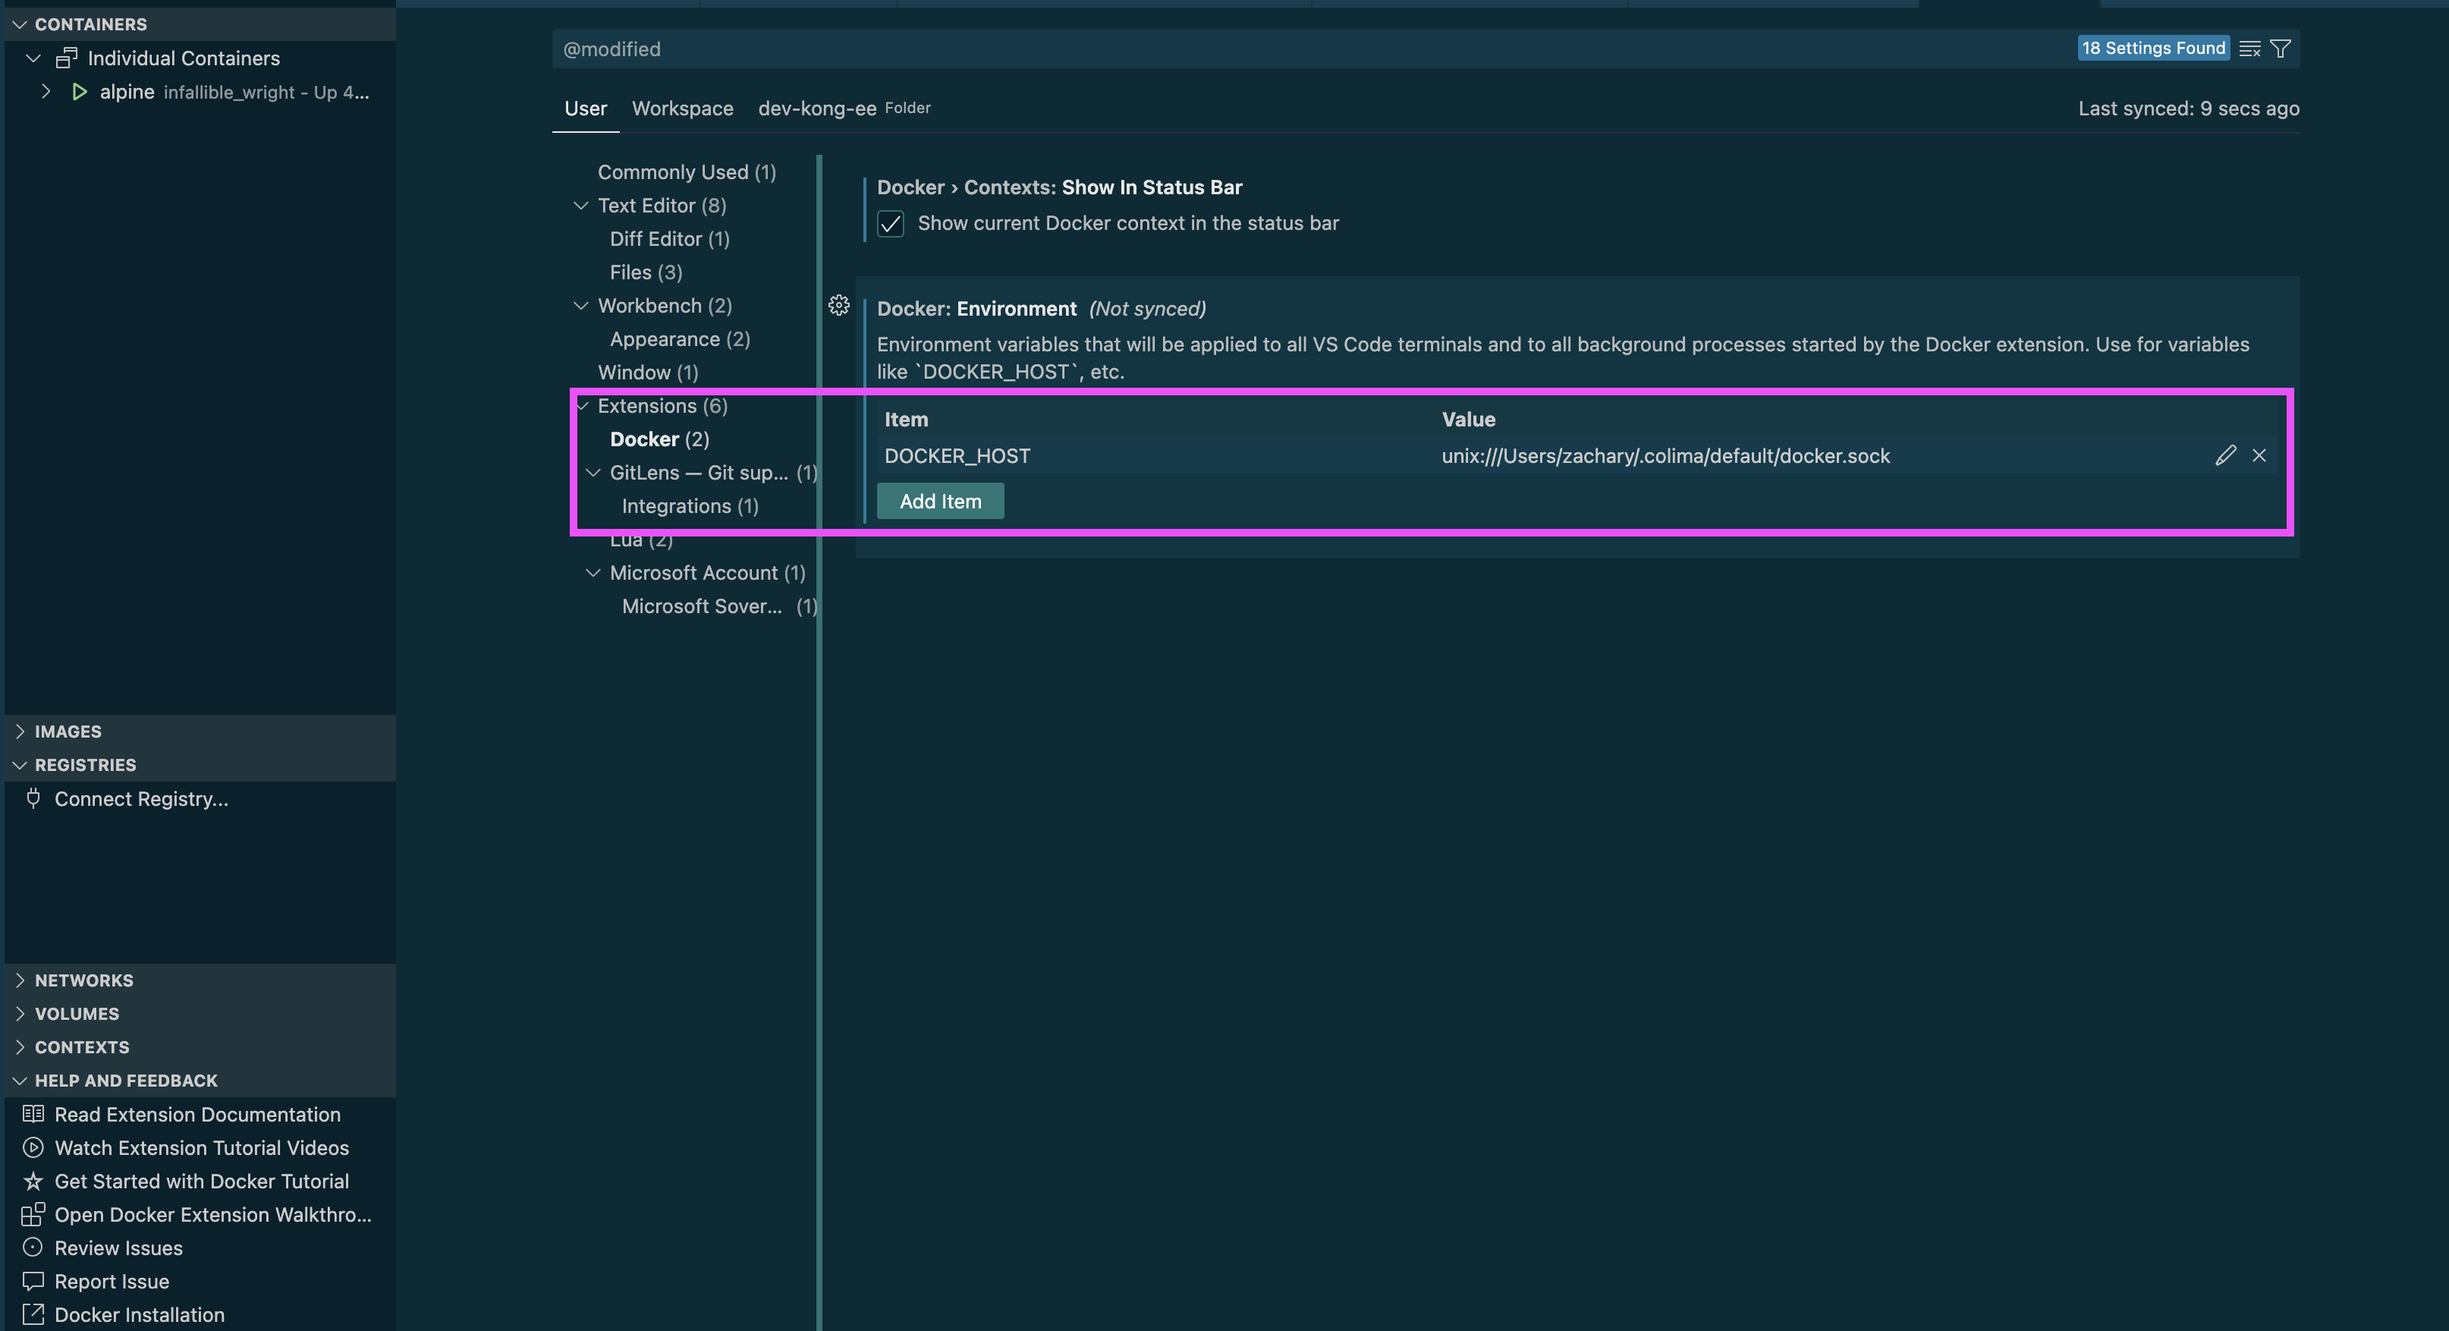
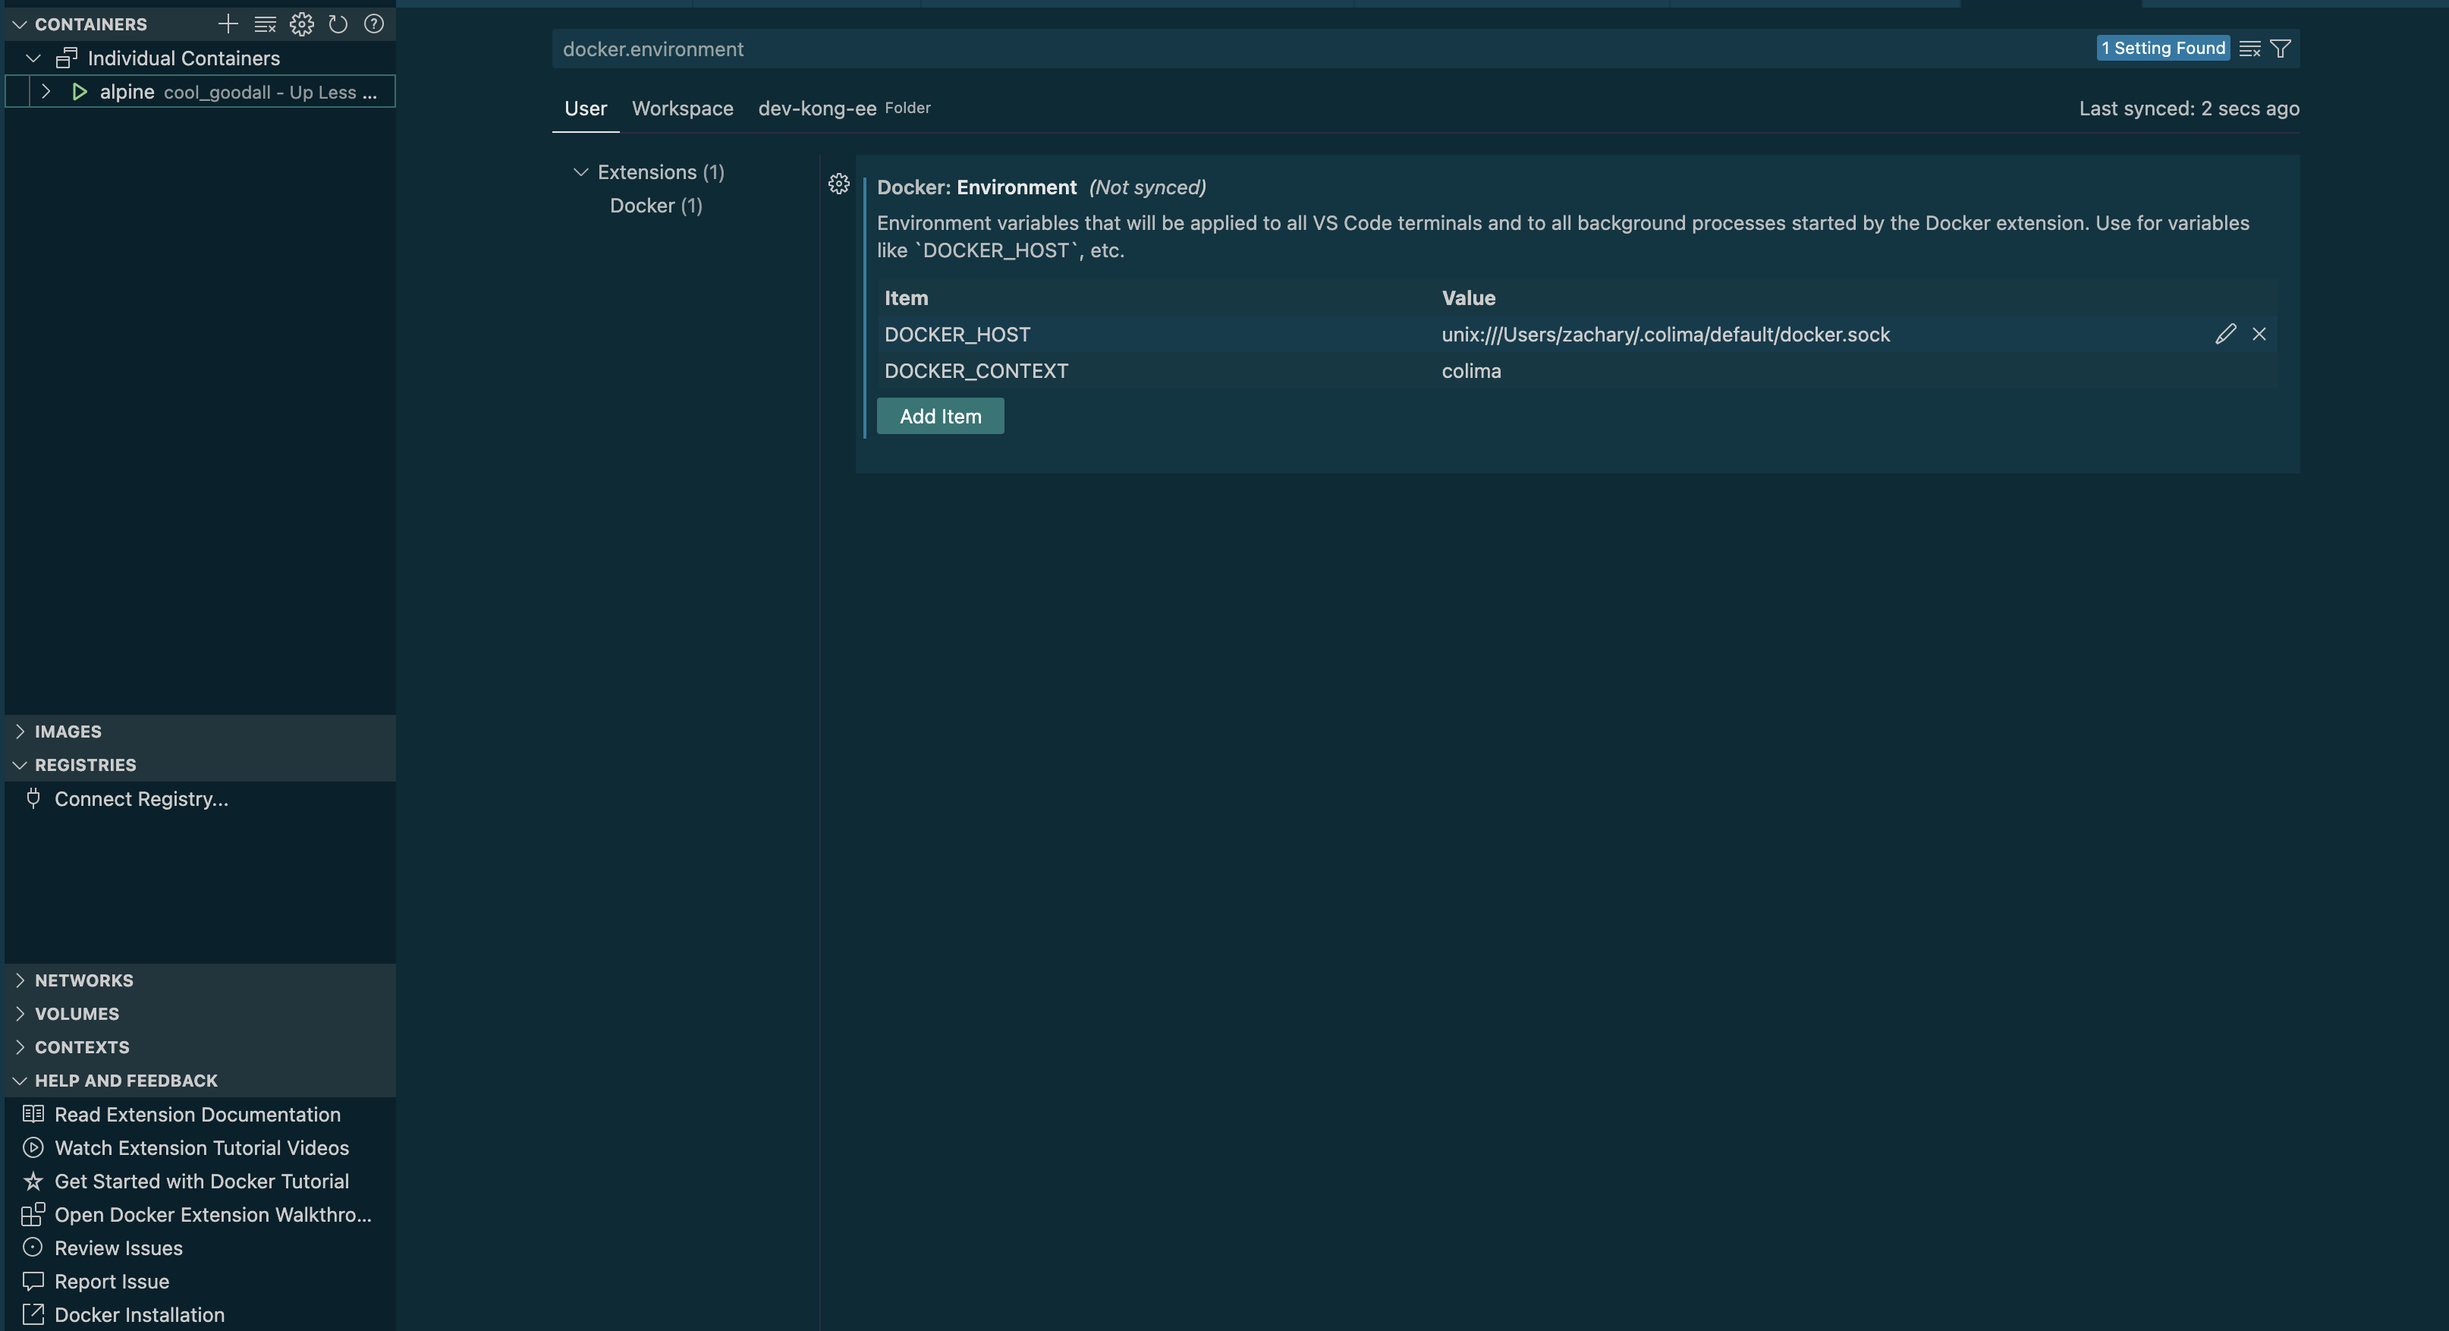
feat(docker): multi-platform build

diff --git a/_posts/2024-12-27-colima.md b/_posts/2024-12-27-colima.md
@@ -128,7 +128,7 @@ FATA[0000] colima is not running
 ~ $ colima start -p default
 ```
 
-Check the status. The colima instance exposes a [Docker Unix socket file docker.sock](#dockersock) to the macOS host for local usage.
+Check the status. The colima instance exposes a [Docker Unix socket file docker.sock](#unix-socket-file) to the macOS host for local usage.
 
 ```bash
 ~ $ colima list
@@ -143,7 +143,7 @@ INFO[0000] mountType: sshfs
 INFO[0000] socket: unix:///Users/jim/.colima/default/docker.sock
 ```
 
-Once started, a new [Docker context](#switch-docker-context) *colima* is created. The context name can be customized in the [config file](#config-colima). The context named *default* is referenced by applications that relies on the [DOCKER_HOST](#dockersock) environment variable.
+Once started, a new [Docker context](#switch-docker-engine) *colima* and a new [Docker builder](#switch-docker-engine) *colima* are created and used. The name *colima* can be customized in the [config file](#config-colima). If the [DOCKER_HOST environment variable is set](#unix-socket-file), it would [override the colima context](#unix-socket-file) regardless of the `DOCKER_CONTEXT` value.
 
 ```bash
 ~ $ docker context list
@@ -260,15 +260,44 @@ $ cat .config/docker/config.json
 }
 ```
 
-## Switch Docker Context ##
+## Switch Docker Engine ##
 
-In the [Start colima](#start-colima) section, the [Docker Context](#/2018/04/21/docker-newbie/#docker-context) is automatically switched to the colima Engine. But to definitely let Dokcer CLI communicate with the colima Engine, we should explicitly switch to it.
+In the [Start colima](#start-colima) section, the [Docker Context](#/2018/04/21/docker-newbie/#docker-context) and the [Docker builder](#multi-platform-build) are automatically switched to the colima Engine. But to definitely let Dokcer CLI communicate with the colima Engine, we should explicitly switch to it.
 
 ```bash
 ~ $ docker context use colima
+
+~ $ docker buildx use colima 
 ```
 
-# docker.sock #
+# Verify Setup #
+
+It is time that we create a container to verify the setup.
+
+```bash
+~ $ docker compose ls
+NAME                STATUS              CONFIG FILES
+16:29:49 zachary@Zacharys-MacBook-Pro ~
+
+~ $ docker ps
+CONTAINER ID   IMAGE     COMMAND   CREATED   STATUS    PORTS     NAMES
+```
+
+From the output, an `aarch64` container was created. So, we can say the colima VM is also `aarch64`.
+
+```bash
+~ $ docker run --rm -ti alpine uname -a
+Unable to find image 'alpine:latest' locally
+latest: Pulling from library/alpine
+cb8611c9fe51: Pull complete
+Digest: sha256:21dc6063fd678b478f57c0e13f47560d0ea4eeba26dfc947b2a4f81f686b9f45
+Status: Downloaded newer image for alpine:latest
+Linux 12025f4e1ef2 6.8.0-50-generic #51-Ubuntu SMP PREEMPT_DYNAMIC Sat Nov  9 18:03:35 UTC 2024 aarch64 Linux
+```
+
+# Compatibility Setup #
+
+## Unix Socket File ##
 
 From the [Start colima](#start-colima) section and the [Inspect colima](#inspect-colima) section, we know the [Docker Unix socket docker.sock](/2018/04/21/docker-newbie/#dockersock) is mapped from the VM to the macOS host.
 
@@ -295,38 +324,107 @@ From the [Start colima](#start-colima) section and the [Inspect colima](#inspect
 +---------------------------------------------------------------------------------------------------------------+
 ```
 
-Applications can not find the colima engine as they assume the default pathname `/var/run/docker.sock`. We should customize the via `DOCKER_HOST` and/or `DOCKER_CONTEXT` [Docker environment variables](https://docs.docker.com/reference/cli/docker/#environment-variables).
+Applications can not find the colima engine as they assume the default pathname `/var/run/docker.sock`. We should set `DOCKER_HOST` and/or `DOCKER_CONTEXT` [Docker environment variables](https://docs.docker.com/reference/cli/docker/#environment-variables) to the *colima engine*.
 
 Take VSCode for example, we can set the variables in the [Docker extension](https://code.visualstudio.com/remote/advancedcontainers/develop-remote-host#_connect-using-docker-contexts).
 
-![docker-host.png](/assets/docker-host.png)
+![docker-host.png](../assets/docker-host.png)
+
+For CLI applications, here is an example.
+
+```bash
+~ $ DOCKER_HOST="unix://${COLIMA_HOME}/default/docker.sock" docker context ls
+NAME        DESCRIPTION                               DOCKER ENDPOINT                                     ERROR
+colima      colima                                    unix:///Users/zachary/.colima/default/docker.sock
+default *   Current DOCKER_HOST based configuration   unix:///Users/zachary/.colima/default/docker.sock
+Warning: DOCKER_HOST environment variable overrides the active context. To use a context, either set the global --context flag, or unset DOCKER_HOST environment variable.
+
+~ $ DOCKER_HOST="unix://${COLIMA_HOME}/default/docker.sock" docker buildx ls
+NAME/NODE     DRIVER/ENDPOINT   STATUS    BUILDKIT   PLATFORMS
+colima        docker
+ \_ colima     \_ colima        running   v0.17.3    linux/amd64 (+2), linux/arm64, linux/386
+default*      docker
+ \_ default    \_ default       running   v0.17.3    linux/amd64 (+2), linux/arm64, linux/386
+```
 
 See [FAQ Cannot connect to the Docker daemon](https://github.com/abiosoft/colima/blob/main/docs/FAQ.md#cannot-connect-to-the-docker-daemon-at-unixvarrundockersock-is-the-docker-daemon-running).
 
-# Verify Setup #
+## Multi-platform Build ##
 
-It is time that we create a container to verify the setup.
+The default [docker build driver](https://docs.docker.com/build/builders/drivers/) prioritizes simplicity but does not support advanced features like [multi-platform build](https://docs.docker.com/build/building/multi-platform/), caching, etc.
 
 ```bash
-~ $ docker compose ls
-NAME                STATUS              CONFIG FILES
-16:29:49 zachary@Zacharys-MacBook-Pro ~
+~ $ docker buildx ls
+NAME/NODE    DRIVER/ENDPOINT   STATUS    BUILDKIT   PLATFORMS
+colima*      docker
+ \_ colima    \_ colima        running   v0.17.3    linux/amd64 (+2), linux/arm64, linux/386
+```
+
+To support multi-platform build, create a builder with the [docker-container build driver](https://docs.docker.com/build/builders/drivers/) that has multi-platform support. This driver would create a dedicated container as the builder backend.
+
+The `--use` option would switch to the newly created builder, while `--bootstrap` would start the dedicated container in advanced.
+
+```bash
+~ $ docker buildx create --use --bootstrap --name multi-platform-builder --node multi-platform-builder --driver docker-container --platform "linux/arm64,linux/amd64"
+[+] Building 4.4s (1/1) FINISHED
+ => [internal] booting buildkit                                                                                                                                                                                               4.4s
+ => => pulling image moby/buildkit:buildx-stable-1                                                                                                                                                                            4.0s
+ => => creating container buildx_buildkit_multi-platform-builder                                                                                                                                                              0.4s
+multi-platform-builder
+
+~ $ docker buildx ls
+NAME/NODE                    DRIVER/ENDPOINT    STATUS    BUILDKIT   PLATFORMS
+multi-platform-builder*      docker-container
+ \_ multi-platform-builder    \_ colima         running   v0.18.2    linux/amd64* (+2), linux/arm64*, linux/386
+colima                       docker
+ \_ colima                    \_ colima         running   v0.17.3    linux/amd64 (+2), linux/arm64, linux/386
 
 ~ $ docker ps
-CONTAINER ID   IMAGE     COMMAND   CREATED   STATUS    PORTS     NAMES
+CONTAINER ID   IMAGE                           COMMAND                  CREATED          STATUS          PORTS     NAMES
+80b4fa8ad380   moby/buildkit:buildx-stable-1   "buildkitd --allow-i…"   14 seconds ago   Up 14 seconds             buildx_buildkit_multi-platform-builder
 ```
 
-From the output, an `aarch64` container was created. So, we can say the colima VM is also `aarch64`.
+Let's build a "linux/amd64" image on the "linux/arm64" machine.
 
 ```bash
-~ $ docker run --rm -ti alpine uname -a
-Unable to find image 'alpine:latest' locally
-latest: Pulling from library/alpine
-cb8611c9fe51: Pull complete
-Digest: sha256:21dc6063fd678b478f57c0e13f47560d0ea4eeba26dfc947b2a4f81f686b9f45
-Status: Downloaded newer image for alpine:latest
-Linux 12025f4e1ef2 6.8.0-50-generic #51-Ubuntu SMP PREEMPT_DYNAMIC Sat Nov  9 18:03:35 UTC 2024 aarch64 Linux
+~ $ grep -A1 platforms kong-dev-compose.yaml
+72:      platforms:                    # Docker will determine the native platform unless you specify a different value.
+73-      - "linux/amd64"               # linux/arm64 | linux/amd64
+
+~ $ $ docker compose -f kong-dev-compose.yaml build kong
+[+] Building 0/1s (0/1)                                                                                                                                                                           docker-container:multi-platform-builder
+[+] Building 59.2s (7/16)                                                                                                                                                                         docker-container:multi-platform-builder
+[+] Building 93.9s (7/16)                                                                                                                                                                         docker-container:multi-platform-builder
+ => [kong internal] booting buildkit                                                                                                                                                                                                 3.3s
+ => => pulling image moby/buildkit:buildx-stable-1                                                                                                                                                                                   2.9s
+ => => creating container buildx_buildkit_multi-platform-builder                                                                                                                                                                     0.4s
+ => [kong internal] load build definition from kong-dev-compose.Dockerfile                                                                                                                                                           0.0s
+ => => transferring dockerfile: 6.34kB                                                                                                                                                                                               0.0s
+ => [kong internal] load metadata for docker.io/library/ubuntu:24.04                                                                                                                                                                 4.3s
+ => [kong auth] library/ubuntu:pull token for registry-1.docker.io                                                                                                                                                                   0.0s
+ => [kong internal] load .dockerignore                                                                                                                                                                                               0.0s
+ => => transferring context: 2B                                                                                                                                                                                                      0.0s
+ => [kong emmyluadebugger 1/2] FROM docker.io/library/ubuntu:24.04@sha256:80dd3c3b9c6cecb9f1667e9290b3bc61b78c2678c02cbdae5f0fea92cc6734ab                                                                                           1.9s
+ => => resolve docker.io/library/ubuntu:24.04@sha256:80dd3c3b9c6cecb9f1667e9290b3bc61b78c2678c02cbdae5f0fea92cc6734ab                                                                                                                0.0s
+ => => sha256:8bb55f0677778c3027fcc4253dc452bc9c22de989a696391e739fb1cdbbdb4c2 28.89MB / 28.89MB                                                                                                                                     1.4s
+ => => extracting sha256:8bb55f0677778c3027fcc4253dc452bc9c22de989a696391e739fb1cdbbdb4c2                                                                                                                                            0.5s
+ => [kong emmyluadebugger 2/2] RUN <<-EOF (set -ex...)                                                                                                                                                                              84.0s
+ => => # [ 68%] Building CXX object emmy_debugger/CMakeFiles/emmy_debugger.dir/src/transporter/transporter.cpp.o
+ => => # [ 70%] Building CXX object emmy_debugger/CMakeFiles/emmy_debugger.dir/src/debugger/emmy_debugger.cpp.o
+ => => # [ 71%] Building CXX object emmy_debugger/CMakeFiles/emmy_debugger.dir/src/debugger/emmy_debugger_manager.cpp.o
+ => => # [ 73%] Building CXX object emmy_debugger/CMakeFiles/emmy_debugger.dir/src/debugger/emmy_debugger_lib.cpp.o
+ => => # [ 75%] Building CXX object emmy_debugger/CMakeFiles/emmy_debugger.dir/src/debugger/hook_state.cpp.o
+ => => # [ 76%] Building CXX object emmy_debugger/CMakeFiles/emmy_debugger.dir/src/debugger/extension_point.cpp.o
+ => [kong baseimage  2/11] RUN echo "I am building target platform linux/amd64 on source platform linux/arm64 from base ubuntu:24.04"
+
+...
+
+~ $ docker image inspect 11e108b7f310
+...
+"Architecture": "amd64",
 ```
+
+Please see [multi-platform-docker-build](https://github.com/BretFisher/multi-platform-docker-build).
 
 # References #
 

diff --git a/_posts/2018-04-21-docker-newbie.md b/_posts/2018-04-21-docker-newbie.md
@@ -965,8 +965,8 @@ Successfully tagged nginx:v3
       echo "username:1C2B3A" | chpasswd'
       ```
 
-9. Check [multi-platform-docker-build](https://github.com/BretFisher/multi-platform-docker-build) for AMD64/ARM64 arch issue. This also applies to [Create a Container](#launch-containers).
-10. Some commands may have ask interactive questions. Please check [DEBIAN_FRONTEND=noninteractive](https://serverfault.com/q/949991).
+9. Some commands may have ask interactive questions. Please check [DEBIAN_FRONTEND=noninteractive](https://serverfault.com/q/949991).
+10. See [multi-platform build](https://www.zhstar.win/2024/12/27/colima/#multi-platform-build).
 
 Refer to [Best practice for writing Dockerfile](https://docs.docker.com/develop/develop-images/dockerfile_best-practices/).
 
